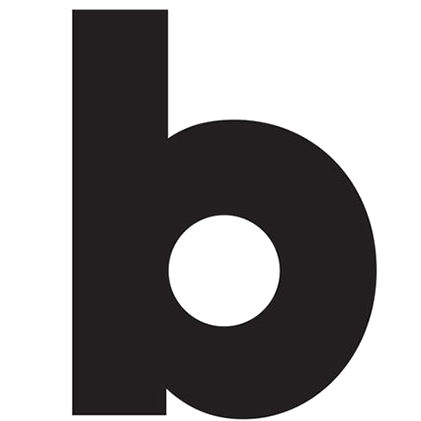
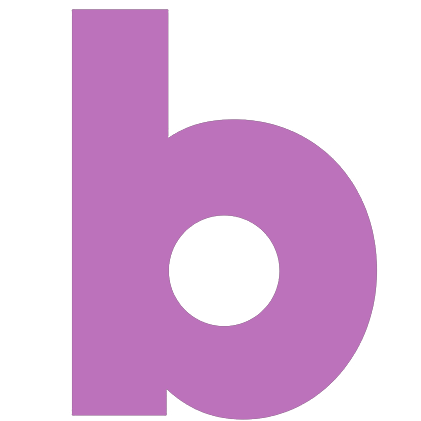
prince updates

diff --git a/20160501-prince_stats/index.html b/20160501-prince_stats/index.html
@@ -86,7 +86,7 @@
   <div id="wrapper">
 
 <div class="leftSide">
- <div class="bigicon"><img src="./img/prince_logo.png" /></div>
+ <div class="bigicon"><img src="./img/prince-icon.png" /></div>
  <div id="selector">
   <section class="main">
         <div class="wrapper-demo">
@@ -302,7 +302,7 @@ function spitFirstItems(year){
       return "<div class='icon'><img src='img/" + d.art + "' /></div><div class='title'>" + d.title + "</div><div class='rank'>Total Tickets Sold: " + d3.format(",")(d.TicketsSold) + "</div><div class='rank'>Average Tickets Sold: " + d3.format(",")(d.AvgTicketsSold) + "</div><div class='rank'>Gross: $" + d.gross_millions + " million</div>";
     }
     if (d.type == "tickets"){
-      return "<div class='icon'><img src='img/" + d.art + "' /></div><div class='title'>" + d.title + "</div><div class='rank'>Total Tickets Sold: " + d.TicketsSold + "</div><div class='rank'>Average Tickets Sold: " + d3.format(",")(d.AvgTicketsSold) + "</div><div class='rank'>Gross: $" + d.gross_millions + " million</div>"
+      return "<div class='icon'><img src='img/" + d.art + "' /></div><div class='title'>" + d.title + "</div><div class='rank'>Total Tickets Sold: " + d3.format(",")(d.TicketsSold) + "</div><div class='rank'>Average Tickets Sold: " + d3.format(",")(d.AvgTicketsSold) + "</div><div class='rank'>Gross: $" + d.gross_millions + " million</div>"
     }
  });
 }
